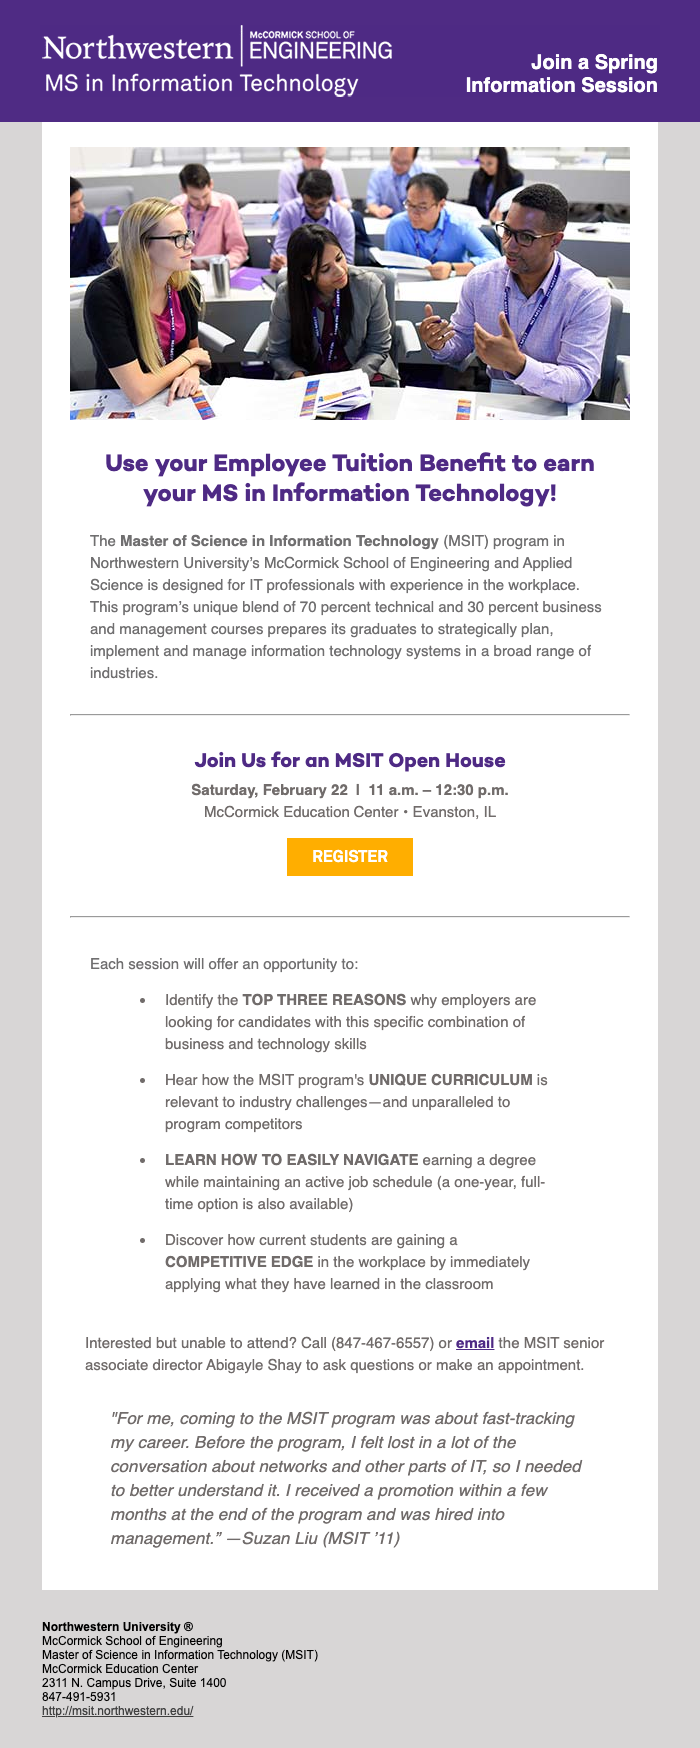
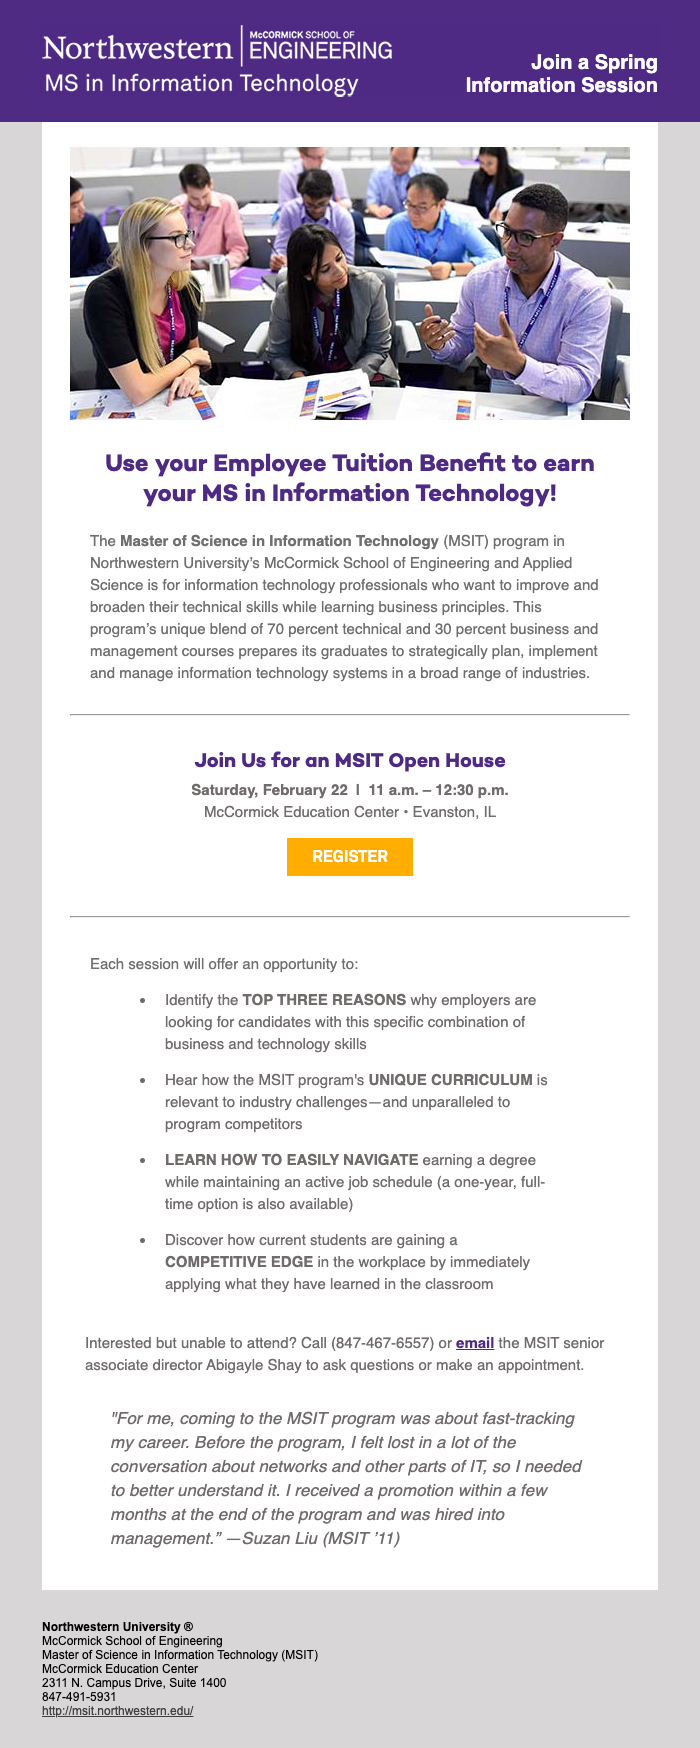
Corrections made

Changed region(s): [[0.12, 0.3089, 0.87, 0.4016]]

diff --git a/MSIT-Spring2020-InfoSession.html b/MSIT-Spring2020-InfoSession.html
@@ -140,14 +140,14 @@ ul {
 
                     <h2 style="font-style: normal;font-weight: 400;Margin-left: 20px;Margin-right: 20px;Margin-bottom: 20px;Margin-top: 0px;font-size: 24px;line-height: 30px;font-family: Campton Bold,Helvetica,Arial,sans-serif;color:#4e2a84;text-align: center;"><span class="rwd-line">Use your Employee Tuition Benefit to earn your MS in Information Technology!</span></h2>
                     
-                    <p style="font-style: normal;font-weight: 400;Margin-left: 20px;Margin-right: 20px;Margin-bottom: 20px;Margin-top: 0px;font-size: 15px;line-height: 22px;font-family: Helvetica,Arial,sans-serif;color: #706f70;text-align: left;">The <strong>Master of Science in Information Technology</strong> (MSIT) program in Northwestern University’s McCormick School of Engineering and Applied Science is for information technology professionals who want to improve and broaden their technical skills while learning business principles. This program’s unique blend of 70 percent technical and 30 percent business and management courses prepares its graduates to strategically plan, implement and manage information technology systems in a broad range of industries.</p>
+                    <p style="font-style: normal;font-weight: 400;Margin-left: 20px;Margin-right: 20px;Margin-bottom: 20px;Margin-top: 0px;font-size: 15px;line-height: 22px;font-family: Helvetica,Arial,sans-serif;color: #706f70;text-align: left;">The <strong>Master of Science in Information Technology</strong> (MSIT) program in Northwestern University’s McCormick School of Engineering and Applied Science is designed for IT professionals with experience in the workplace. This program’s unique blend of 70 percent technical and 30 percent business and management courses prepares its graduates to strategically plan, implement and manage information technology systems in a broad range of industries.</p>
                 
                     <hr style="margin-top:30px;margin-bottom:30px;"/>
 
                     
                         <p style="font-style: normal;font-weight: 400;Margin-bottom:0px;Margin-top:34px;font-size: 20px;line-height: 24px;font-family: Campton Bold,Helvetica,Arial,Tahoma,sans-serif;color: #4e2a84;text-align: center;"><a href="https://degree.msit.northwestern.edu/prospect/register-is-open-house/?utm_source=northwestern&utm_medium=email&utm_campaign=msit-info-session-openhouse&utm_content=leads_nu-staff_fy20_event-mention" style="text-decoration: none;"><span style="color: #4e2a84;text-decoration:none;">Join Us for an MSIT Open House</span></a></p>
                  
-                        <p style="font-style: normal;font-weight: 400;Margin-bottom: 15px;Margin-top: 5px;font-size: 15px;line-height: 22px;font-family: Helvetica,Arial,Tahoma,sans-serif;color: #716c6b;text-align: center;"><span style="font-style: bold;font-weight: 700">Saturday, February 22 &nbsp;|&nbsp; 11 a.m. &ndash; 12:30 p.m.</span><br/>McCormick Education Center &bull; Evanston, IL</p>
+                        <p style="font-style: normal;font-weight: 400;Margin-bottom: 15px;Margin-top: 5px;font-size: 15px;line-height: 22px;font-family: Helvetica,Arial,Tahoma,sans-serif;color: #716c6b;text-align: center;"><span style="font-style: bold;font-weight: 700">Saturday, February 22 &nbsp;|&nbsp; 11 a.m. &ndash; 12:30 p.m.</span><br/>McCormick Education &bull; Center Evanston, IL</p>
 
                         <div class="btn btn--center" style="Margin-bottom: 15px;Margin-top: 0px;text-align: center;">
                         <!--[if !mso]--><a style="border-radius: 0px;display: inline-block;font-size: 16px;font-weight: 300;line-height: 30px;padding: 4px 25px;text-align: center;text-decoration: none !important;transition: opacity 0.2s ease-in;color: #ffffff;font-family: Akkurat Pro Bold,Helvetica,Arial,Tahoma,sans-serif;background-color: #ffae00;" href="https://degree.msit.northwestern.edu/prospect/register-is-open-house/?utm_source=northwestern&utm_medium=email&utm_campaign=msit-info-session-openhouse&utm_content=leads_nu-staff_fy20_event-mention" target="_blank">REGISTER</a><!--[endif]-->

diff --git a/FacStaff-PTGradPrograms-Spring2020.html b/FacStaff-PTGradPrograms-Spring2020.html
@@ -154,7 +154,7 @@ ul {
 
 <h3 style="font-style: normal;font-weight: 400;Margin-bottom: 5px;Margin-top:30px;font-size: 20px;line-height: 24px;font-family: Campton Bold,Helvetica,Arial,Tahoma,sans-serif;color: #4e2a84;text-align: center;" class="text-margin"><a href="https://degree.professionalmasters.northwestern.edu/prospect/rqst-prog-guide/?utm_source=northwestern&utm_medium=email&utm_campaign=multi-program-guide&utm_content=leads_nu-staff_2020-03_brochure-offer" style="text-decoration: none;"><span style="color: #4e2a84;text-decoration:none;">Master of Science in Information Technology</span></a></h3>
                   
-<p style="font-style: normal;font-weight: 400;Margin-bottom: 15px;Margin-top: 0px;font-size: 14px;line-height: 20px;font-family: Helvetica,Arial,Tahoma,sans-serif;color: #716c6b;text-align: center;" class="text-margin">The MSIT is a program for information technology professionals who want to improve and broaden their technical skills while learning business principles.</p>
+<p style="font-style: normal;font-weight: 400;Margin-bottom: 15px;Margin-top: 0px;font-size: 14px;line-height: 20px;font-family: Helvetica,Arial,Tahoma,sans-serif;color: #716c6b;text-align: center;" class="text-margin">The MSIT program is for information technology professionals who want to improve and broaden their technical skills while learning business principles.</p>
 
 <h3 style="font-style: normal;font-weight: 400;Margin-bottom: 5px;Margin-top:30px;font-size: 20px;line-height: 24px;font-family: Campton Bold,Helvetica,Arial,Tahoma,sans-serif;color: #4e2a84;text-align: center;" class="text-margin"><a href="https://degree.professionalmasters.northwestern.edu/prospect/rqst-prog-guide/?utm_source=northwestern&utm_medium=email&utm_campaign=multi-program-guide&utm_content=leads_nu-staff_2020-03_brochure-offer" style="text-decoration: none;"><span style="color: #4e2a84;text-decoration:none;">Master of Product Design and Development Management</span></a></h3>
                   
